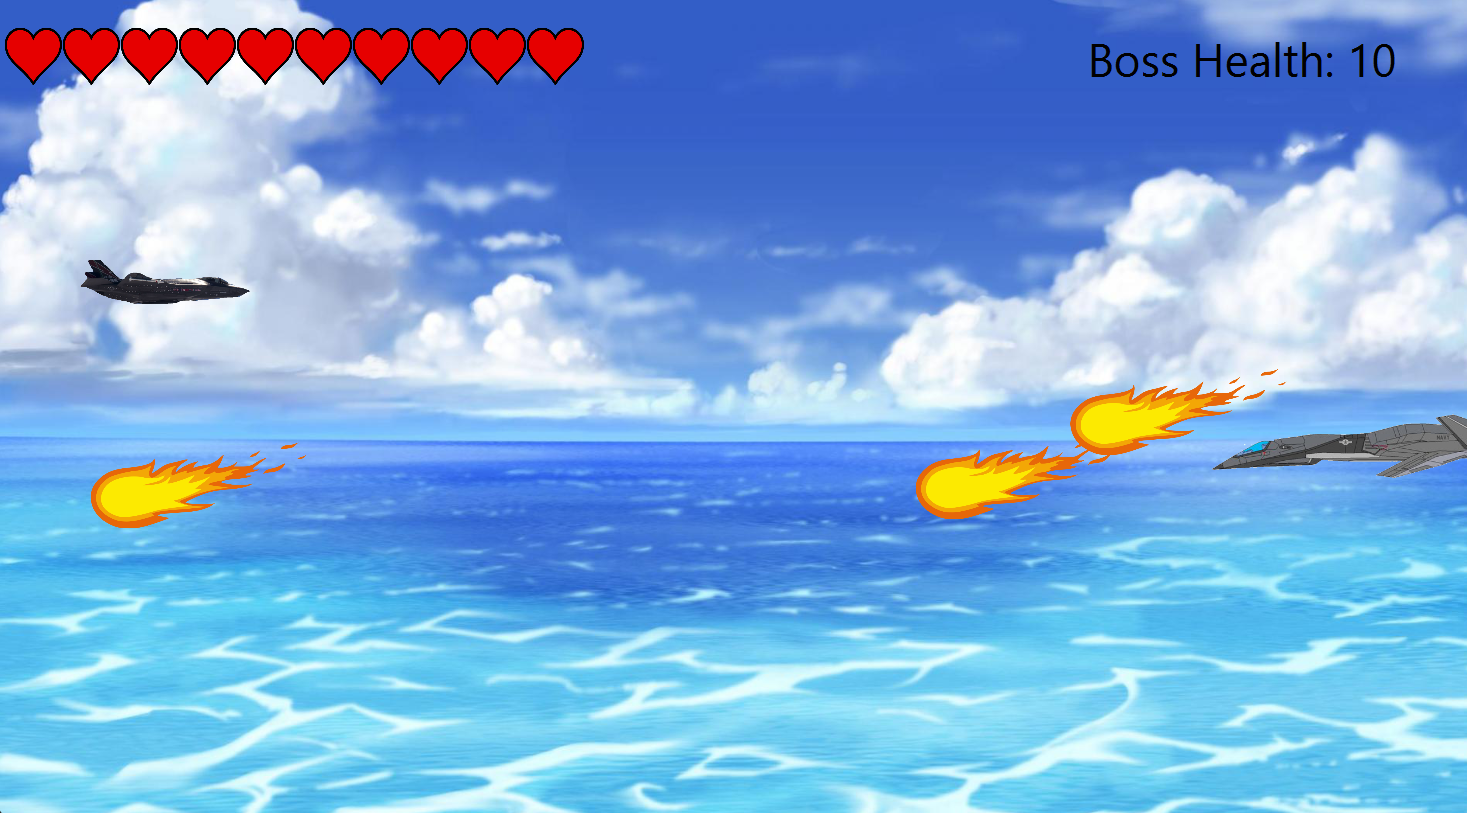
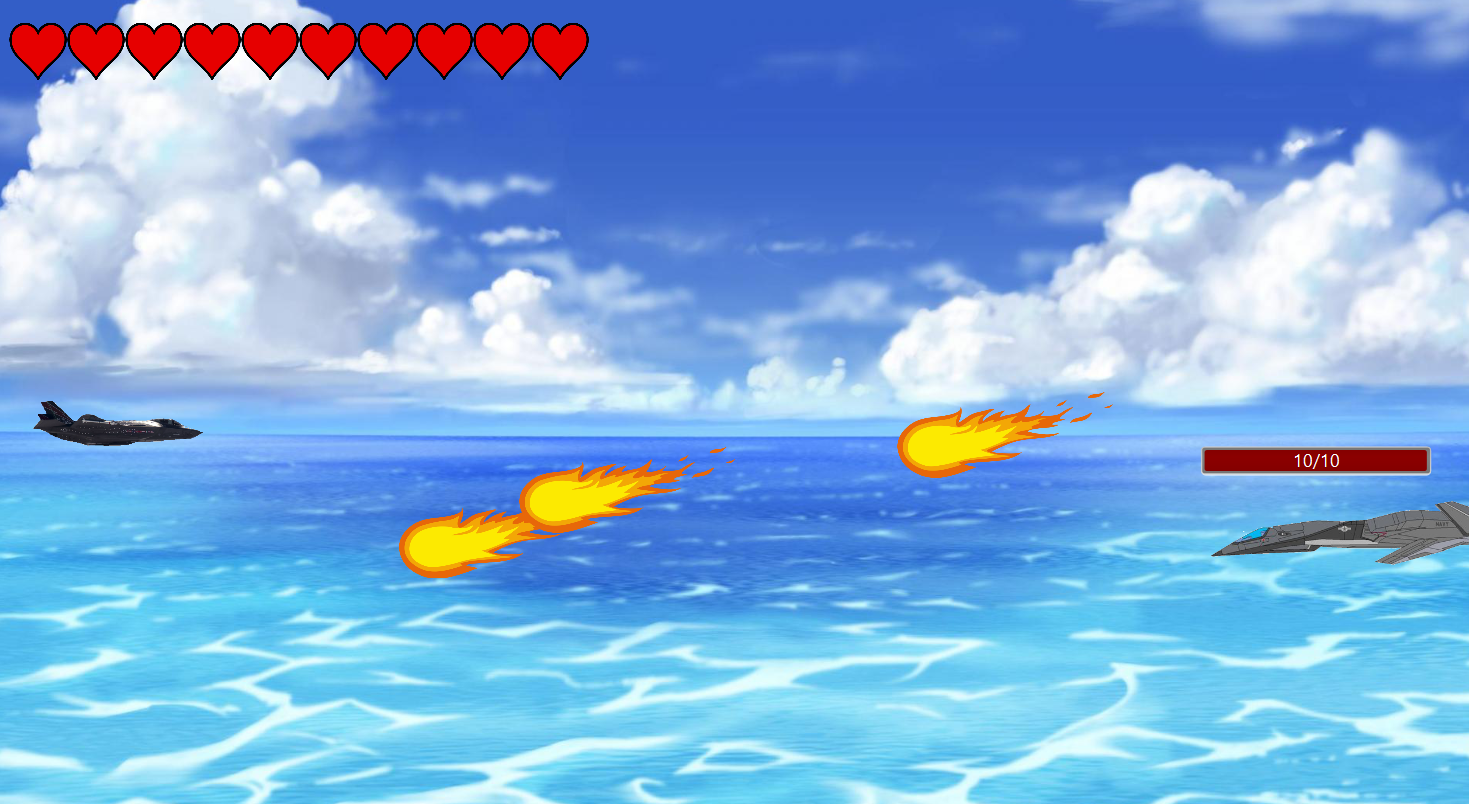
create MultiStageBoos inherited from Boss, creat Level Four, at stage 1 create boss, white generate enemy plane at stage 2, add instructions and images for level 3 and 4 in tutorial

diff --git a/src/main/java/com/example/demo/level/LevelFour.java b/src/main/java/com/example/demo/level/LevelFour.java
@@ -1,0 +1,106 @@
+package com.example.demo.level;
+
+import com.example.demo.actor.ActiveActorDestructible;
+import com.example.demo.actor.plane.EnemyPlane;
+import com.example.demo.actor.plane.MultiStageBoss;
+import com.example.demo.audio.Music;
+import com.example.demo.audio.SoundEffect;
+import com.example.demo.ui.LevelCompletedMenu;
+import javafx.scene.Scene;
+
+public class LevelFour extends LevelParent {
+    private static final String BACKGROUND_IMAGE_NAME = "/com/example/demo/images/background4.jpg";
+    private static final int PLAYER_INITIAL_HEALTH = 6;
+    private LevelViewLevelFour levelView;
+    private final MultiStageBoss boss;
+    private static final int BOSS_STAGE_ONE_HEALTH = 15;
+    private static final int BOSS_STAGE_TWO_HEALTH = 25;
+    private static final double SUMMON_ENEMY_PROBABILITY = .2;
+    private static final int TOTAL_ENEMY_PLANES = 3;
+    private boolean isBossShielded;
+    private final SoundEffect soundEffect;
+
+    public LevelFour(double screenHeight, double screenWidth, Music music, SoundEffect soundEffect) {
+        super(BACKGROUND_IMAGE_NAME, screenHeight, screenWidth, PLAYER_INITIAL_HEALTH, music, soundEffect);
+        boss = new MultiStageBoss(BOSS_STAGE_ONE_HEALTH, BOSS_STAGE_TWO_HEALTH);
+        this.isBossShielded = boss.isShielded();
+        this.soundEffect = soundEffect;
+    }
+
+    @Override
+    protected void checkIfGameOver() {
+        if (userIsDestroyed()) {
+            loseGame();
+            levelView.hideBossHealth();
+        } else if (boss.isDestroyed()) {
+            winGame();
+            levelView.hideBossHealth();
+        }
+    }
+
+    @Override
+    protected void spawnEnemyUnits() {
+        if (getCurrentNumberOfEnemies() == 0) {
+            addEnemyUnit(boss);
+        }
+
+        if (boss.getStage() == 2) {
+            int currentNumberOfEnemyPlanes = getCurrentNumberOfEnemies() - 1; // exclude the boss
+            for (int i = 0; i < TOTAL_ENEMY_PLANES - currentNumberOfEnemyPlanes; i++) {
+                if (Math.random() < SUMMON_ENEMY_PROBABILITY) {
+                    double newEnemyInitialYPosition = Math.random() * getEnemyMaximumYPosition();
+                    ActiveActorDestructible newEnemy = new EnemyPlane(getScreenWidth(), newEnemyInitialYPosition);
+                    addEnemyUnit(newEnemy);
+                }
+            }
+        }
+    }
+
+    @Override
+    public Scene initializeScene() {
+        Scene scene = super.initializeScene();
+        levelView.displayShield();
+        levelView.showBossHealth();
+        return scene;
+    }
+
+    @Override
+    protected void updateLevelView() {
+        super.updateLevelView();
+        // update shield position
+        levelView.updateShieldPosition(boss);
+        boolean bossWasShielded = isBossShielded;
+
+        if (boss.isShielded()) {
+            levelView.showShield();
+            if (!bossWasShielded) {
+                soundEffect.playActivateShield();
+            }
+        } else {
+            levelView.hideShield();
+            if (bossWasShielded) {
+                soundEffect.playShieldDeactivate();
+            }
+        }
+
+        isBossShielded = boss.isShielded();
+
+        // update boss health
+        levelView.updateBossHealth(boss.getStage() == 1 ? boss.getHealth() - BOSS_STAGE_TWO_HEALTH : boss.getHealth());
+        levelView.updateBossHealthPosition(boss);
+        if (boss.getStage() == 2) {
+            levelView.showStageTwoHealth();
+        }
+    }
+
+    @Override
+    protected LevelView instantiateLevelView() {
+        levelView = new LevelViewLevelFour(getRoot(), PLAYER_INITIAL_HEALTH, BOSS_STAGE_ONE_HEALTH, TOTAL_ENEMY_PLANES, BOSS_STAGE_TWO_HEALTH);
+        return levelView;
+    }
+
+    @Override
+    protected LevelCompletedMenu showLevelCompletedMenu() {
+        return null;
+    }
+}

diff --git a/src/main/java/com/example/demo/level/LevelTwo.java b/src/main/java/com/example/demo/level/LevelTwo.java
@@ -10,8 +10,9 @@ public class LevelTwo extends LevelParent {
 
     private static final String BACKGROUND_IMAGE_NAME = "/com/example/demo/images/background2.jpg";
     private static final String NEXT_LEVEL = "com.example.demo.level.LevelThree";
-    private static final int PLAYER_INITIAL_HEALTH = 10;
+    private static final int PLAYER_INITIAL_HEALTH = 6;
     private Boss boss;
+    private static final int BOSS_HEALTH = 15;
     private LevelViewLevelTwo levelView;
     private final SoundEffect soundEffect;
     private boolean isBossShielded;
@@ -19,7 +20,7 @@ public class LevelTwo extends LevelParent {
     public LevelTwo(double screenHeight, double screenWidth, Music music, SoundEffect soundEffect) {
         super(BACKGROUND_IMAGE_NAME, screenHeight, screenWidth, PLAYER_INITIAL_HEALTH, music, soundEffect);
         this.soundEffect = soundEffect;
-        boss = boss == null ? new Boss() : boss;
+        boss = new Boss(BOSS_HEALTH);
         this.isBossShielded = boss.isShielded();
     }
 
@@ -27,8 +28,10 @@ public class LevelTwo extends LevelParent {
     protected void checkIfGameOver() {
         if (userIsDestroyed()) {
             loseGame();
+            levelView.hideBossHealth();
         } else if (boss.isDestroyed()) {
             levelCompleted();
+            levelView.hideBossHealth();
         }
     }
 
@@ -41,9 +44,7 @@ public class LevelTwo extends LevelParent {
 
     @Override
     protected LevelView instantiateLevelView() {
-        // check is boss is initialised
-        boss = boss == null ? new Boss() : boss;
-        levelView = new LevelViewLevelTwo(getRoot(), PLAYER_INITIAL_HEALTH, boss.getHealth(), 1);
+        levelView = new LevelViewLevelTwo(getRoot(), PLAYER_INITIAL_HEALTH, BOSS_HEALTH, 1);
         return levelView;
     }
 
@@ -59,7 +60,7 @@ public class LevelTwo extends LevelParent {
     protected void updateLevelView() {
         super.updateLevelView();
         // update shield position
-        levelView.updateShieldPosition(boss.getLayoutX() + boss.getTranslateX(), boss.getLayoutY() + boss.getTranslateY());
+        levelView.updateShieldPosition(boss);
         boolean bossWasShielded = isBossShielded;
 
         if (boss.isShielded()) {

diff --git a/src/main/java/com/example/demo/level/LevelViewLevelFour.java b/src/main/java/com/example/demo/level/LevelViewLevelFour.java
@@ -1,0 +1,49 @@
+package com.example.demo.level;
+
+import com.example.demo.actor.plane.Boss;
+import com.example.demo.actor.plane.MultiStageBoss;
+import com.example.demo.ui.ShieldImage;
+import javafx.scene.Group;
+
+public class LevelViewLevelFour extends LevelViewLevelTwo {
+    private final int bossStageTwoHealth;
+    private boolean isHealthReset;
+
+    public LevelViewLevelFour(Group root, int heartsToDisplay, int bossStageOneHealth, int totalEnemiesPerTime, int bossStageTwoHealth) {
+        super(root, heartsToDisplay, bossStageOneHealth, totalEnemiesPerTime);
+        this.bossStageTwoHealth = bossStageTwoHealth;
+        this.isHealthReset = false;
+    }
+
+    public void showStageTwoHealth() {
+        if (!isHealthReset) {
+            getBossHealthDisplay().resetHealth(bossStageTwoHealth);
+            isHealthReset = true;
+        }
+    }
+
+    @Override
+    public void updateBossHealthPosition(Boss boss) {
+        MultiStageBoss multiStageBoss = (MultiStageBoss) boss;
+        if (multiStageBoss.getStage() == 1) {
+            super.updateBossHealthPosition(boss);
+        } else {
+            double xPos = boss.getLayoutX() + boss.getTranslateX() + 50;
+            double yPos = boss.getLayoutY() + boss.getTranslateY();
+            getBossHealthDisplay().setLayout(xPos, yPos);
+        }
+    }
+
+    @Override
+    public void updateShieldPosition(Boss boss) {
+        MultiStageBoss multiStageBoss = (MultiStageBoss) boss;
+        if (multiStageBoss.getStage() == 1) {
+            super.updateShieldPosition(boss);
+        } else {
+            double bossPositionX = boss.getLayoutX() + boss.getTranslateX() - ShieldImage.SHIELD_SIZE / 2;
+            double bossPositionY = boss.getLayoutY() + boss.getTranslateY() + ShieldImage.SHIELD_SIZE / 4;
+            getShieldImage().setLayoutX(bossPositionX);
+            getShieldImage().setLayoutY(bossPositionY);
+        }
+    }
+}

diff --git a/src/main/java/com/example/demo/ui/TutorialPage.java b/src/main/java/com/example/demo/ui/TutorialPage.java
@@ -32,10 +32,14 @@ public class TutorialPage {
 
         levelScreenshots.add(new Image(getClass().getResource("/com/example/demo/images/tutorial1.png").toExternalForm()));
         levelScreenshots.add(new Image(getClass().getResource("/com/example/demo/images/tutorial2.png").toExternalForm()));
-        levelName.addAll(List.of("Level 1", "Level 2"));
-        levelDesc.addAll(List.of("Target: kills a certain number of enemy planes.\nIf any enemy plan pass the leftmost boundary, the user will lose a life.",
-                "Target: kills the boss plane.\nThe boss plane has a shield that can be activated randomly.")
-        );
+        levelScreenshots.add(new Image(getClass().getResource("/com/example/demo/images/tutorial3.png").toExternalForm()));
+        levelScreenshots.add(new Image(getClass().getResource("/com/example/demo/images/tutorial4.png").toExternalForm()));
+        levelName.addAll(List.of("Level 1", "Level 2", "Level 3", "Level 4"));
+        levelDesc.addAll(List.of("Target: kill a certain number of enemy planes.\nIf any enemy plane passes the leftmost boundary, the user will lose a life.",
+                "Target: kill the boss plane.\nThe boss plane has a shield that can be activated randomly.",
+                "Target: survive for 20 seconds.\nYou only have 8 projectiles. Every 2 seconds, you will gain 1 projectile.",
+                "Target: kill the multi-stage boss.\nThe boss plane has a shield that can be activated randomly. At stage 2, the boss will summon enemy planes."
+        ));
     }
 
     public Scene initializeScene() {

diff --git a/src/main/java/com/example/demo/ui/BossHealthDisplay.java b/src/main/java/com/example/demo/ui/BossHealthDisplay.java
@@ -6,7 +6,7 @@ import javafx.scene.control.ProgressBar;
 import javafx.scene.layout.StackPane;
 
 public class BossHealthDisplay extends StackPane {
-    private final int bossInitialHealth;
+    private int bossInitialHealth;
     private final ProgressBar healthBar;
     private final Label healthText;
     private static final int BAR_WIDTH = 200;
@@ -19,7 +19,7 @@ public class BossHealthDisplay extends StackPane {
         this.healthText.setStyle("-fx-font-size: 16; -fx-text-fill: white;");
         this.healthBar.setPrefWidth(BAR_WIDTH);
         this.healthBar.setPrefHeight(BAR_HEIGHT);
-        this.healthBar.setStyle("-fx-accent: darkred; -fx-control-inner-background: grayaaaaa;");
+        this.healthBar.setStyle("-fx-accent: darkred; -fx-control-inner-background: gray;");
         this.getChildren().addAll(healthBar, healthText);
     }
 
@@ -32,5 +32,14 @@ public class BossHealthDisplay extends StackPane {
     public void setLayout(double x, double y) {
         this.setLayoutX(x);
         this.setLayoutY(y);
+    }
+
+    public void resetHealth(int bossHealth) {
+        this.bossInitialHealth = bossHealth;
+        this.healthBar.setStyle("-fx-accent: #00008B; -fx-control-inner-background: gray;");
+    }
+
+    public void hide() {
+        this.setVisible(false);
     }
 }

diff --git a/src/main/java/com/example/demo/level/LevelViewLevelTwo.java b/src/main/java/com/example/demo/level/LevelViewLevelTwo.java
@@ -21,6 +21,10 @@ public class LevelViewLevelTwo extends LevelView {
 		root.getChildren().add(bossHealthDisplay);
 	}
 
+	public void hideBossHealth() {
+		bossHealthDisplay.hide();
+	}
+
 	public void updateBossHealthPosition(Boss boss) {
 		double xPos = boss.getLayoutX() + boss.getTranslateX() + 50;
 		double yPos = boss.getLayoutY() + boss.getTranslateY() + boss.getFitHeight() / 4;
@@ -43,8 +47,19 @@ public class LevelViewLevelTwo extends LevelView {
 		shieldImage.hideShield();
 	}
 
-	public void updateShieldPosition(double bossPositionX, double bossPositionY) {
-		shieldImage.setLayoutX(bossPositionX - ShieldImage.SHIELD_SIZE / 3);
-		shieldImage.setLayoutY(bossPositionY + ShieldImage.SHIELD_SIZE / 4);
+	public void updateShieldPosition(Boss boss) {
+		double bossPositionX = boss.getLayoutX() + boss.getTranslateX() - ShieldImage.SHIELD_SIZE / 3;
+		double bossPositionY = boss.getLayoutY() + boss.getTranslateY() + ShieldImage.SHIELD_SIZE / 4;
+
+		shieldImage.setLayoutX(bossPositionX);
+		shieldImage.setLayoutY(bossPositionY);
+	}
+
+	protected BossHealthDisplay getBossHealthDisplay() {
+		return bossHealthDisplay;
+	}
+
+	protected ShieldImage getShieldImage() {
+		return shieldImage;
 	}
 }

diff --git a/src/main/java/com/example/demo/actor/plane/Boss.java b/src/main/java/com/example/demo/actor/plane/Boss.java
@@ -21,7 +21,6 @@ public class Boss extends FighterPlane {
 	private static final double BOSS_SHIELD_PROBABILITY = .003;
 	private static final int IMAGE_HEIGHT = 300;
 	private static final int VERTICAL_VELOCITY = 8;
-	private static final int HEALTH = 10;
 	private static final int MOVE_FREQUENCY_PER_CYCLE = 5; // Number of moves per cycle
 	private static final int ZERO = 0;
 	private static final int MAX_FRAMES_WITH_SAME_MOVE = 10;
@@ -34,8 +33,8 @@ public class Boss extends FighterPlane {
 	private int indexOfCurrentMove; // Index of the current move in the move pattern
 	private int framesWithShieldActivated; // Number of frames with the shield activated
 
-	public Boss() {
-		super(IMAGE_NAME, IMAGE_HEIGHT, INITIAL_X_POSITION, INITIAL_Y_POSITION, HEALTH);
+	public Boss(int health) {
+		super(IMAGE_NAME, IMAGE_HEIGHT, INITIAL_X_POSITION, INITIAL_Y_POSITION, health);
 		movePattern = new ArrayList<>();
 		consecutiveMovesInSameDirection = 0;
 		indexOfCurrentMove = 0;

diff --git a/src/main/java/com/example/demo/actor/plane/MultiStageBoss.java b/src/main/java/com/example/demo/actor/plane/MultiStageBoss.java
@@ -1,0 +1,30 @@
+package com.example.demo.actor.plane;
+
+public class MultiStageBoss extends Boss {
+    private int stage;
+    private final int stageTwoHealth;
+    private static final String STAGE_TWO_IMAGE = "eagle.png";
+
+    public MultiStageBoss(int stageOneHealth, int stageTwoHealth) {
+        super(stageOneHealth + stageTwoHealth);
+        this.stage = 1;
+        this.stageTwoHealth = stageTwoHealth;
+    }
+
+    @Override
+    public void takeDamage() {
+        super.takeDamage();
+        if (getHealth() <= stageTwoHealth) {
+            advanceStage();
+        }
+    }
+
+    public void advanceStage() {
+        stage = 2;
+        changeImage(STAGE_TWO_IMAGE);
+    }
+
+    public int getStage() {
+        return stage;
+    }
+}

diff --git a/src/main/java/com/example/demo/controller/Main.java b/src/main/java/com/example/demo/controller/Main.java
@@ -122,14 +122,12 @@ public class Main extends Application {
         TutorialPage tutorialPage = new TutorialPage(scene);
         Scene tutorialScene = tutorialPage.initializeScene();
         stage.setScene(tutorialScene);
-        System.out.println(stage.getScene().getX() + " " + stage.getScene().getY());
     }
 
     private void showSetting(Stage stage) {
         SettingPage settingPage = new SettingPage(scene, music, soundEffect);
         Scene settingScene = settingPage.initializeScene();
         stage.setScene(settingScene);
-        System.out.println(stage.getScene().getX() + " " + stage.getScene().getY());
     }
 
     public static void main(String[] args) {

diff --git a/src/main/java/com/example/demo/level/LevelParent.java b/src/main/java/com/example/demo/level/LevelParent.java
@@ -78,7 +78,7 @@ public abstract class LevelParent extends Observable {
         initializeTimeline();
         friendlyUnits.add(user);
         this.pauseButton = new PauseButton(this::pauseGame);
-        this.postLevelButtons = new PostLevelButtons(getScreenWidth(), this::returnToMenu, () -> replayLevel("com.example.demo.level.LevelOne "));
+        this.postLevelButtons = new PostLevelButtons(getScreenWidth(), this::returnToMenu, () -> replayLevel("com.example.demo.level.LevelOne"));
     }
 
     private void initializeFriendlyUnits() {

diff --git a/src/main/java/com/example/demo/level/LevelOne.java b/src/main/java/com/example/demo/level/LevelOne.java
@@ -12,7 +12,7 @@ public class LevelOne extends LevelParent {
 	private static final String BACKGROUND_IMAGE_NAME = "/com/example/demo/images/background1.jpg";
 	private static final String NEXT_LEVEL = "com.example.demo.level.LevelTwo";
 	private static final int TOTAL_ENEMIES = 5;
-	private static final int KILLS_TO_ADVANCE = 5;
+	private static final int KILLS_TO_ADVANCE = 10;
 	private static final double ENEMY_SPAWN_PROBABILITY = .20;
 	private static final int PLAYER_INITIAL_HEALTH = 6;
 	private LevelViewLevelOne levelView;

diff --git a/src/main/java/com/example/demo/controller/Controller.java b/src/main/java/com/example/demo/controller/Controller.java
@@ -17,7 +17,7 @@ import com.example.demo.level.LevelParent;
 
 public class Controller implements Observer {
 
-    private static final String LEVEL_ONE_CLASS_NAME = "com.example.demo.level.LevelTwo";
+    private static final String LEVEL_ONE_CLASS_NAME = "com.example.demo.level.LevelOne";
     private final Stage stage;
     private final Music music;
     private final SoundEffect soundEffect;
